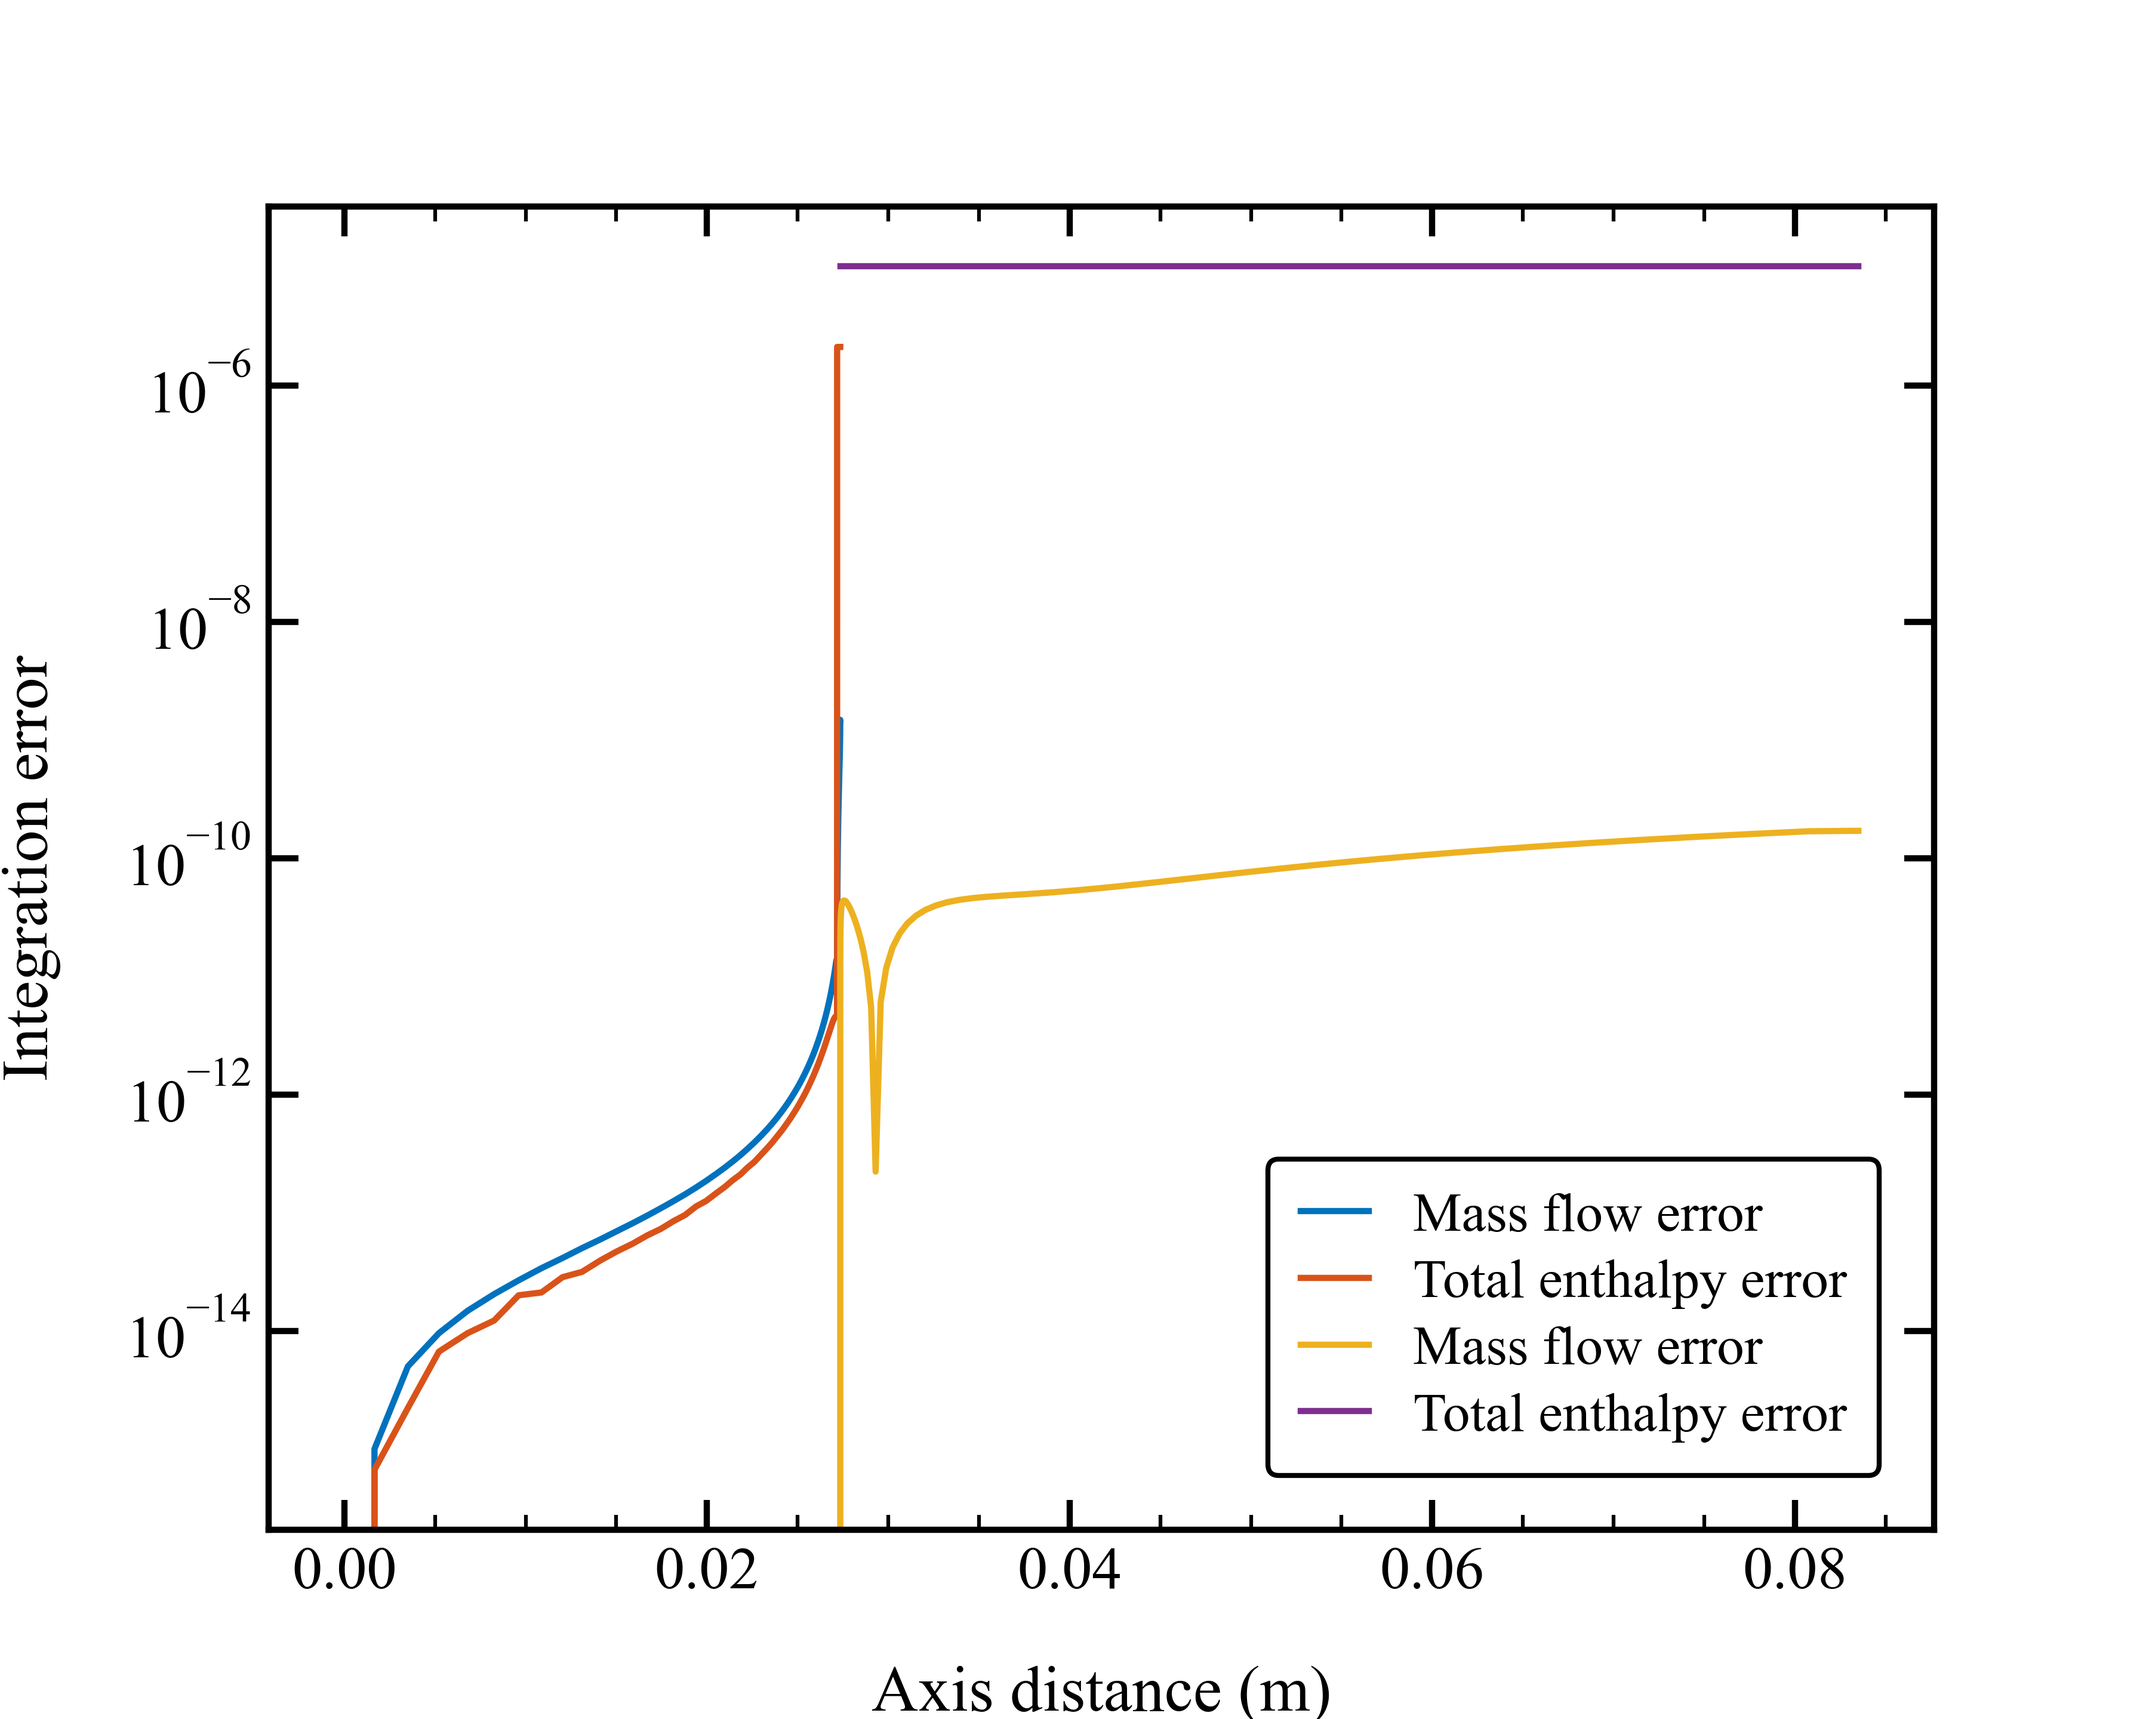
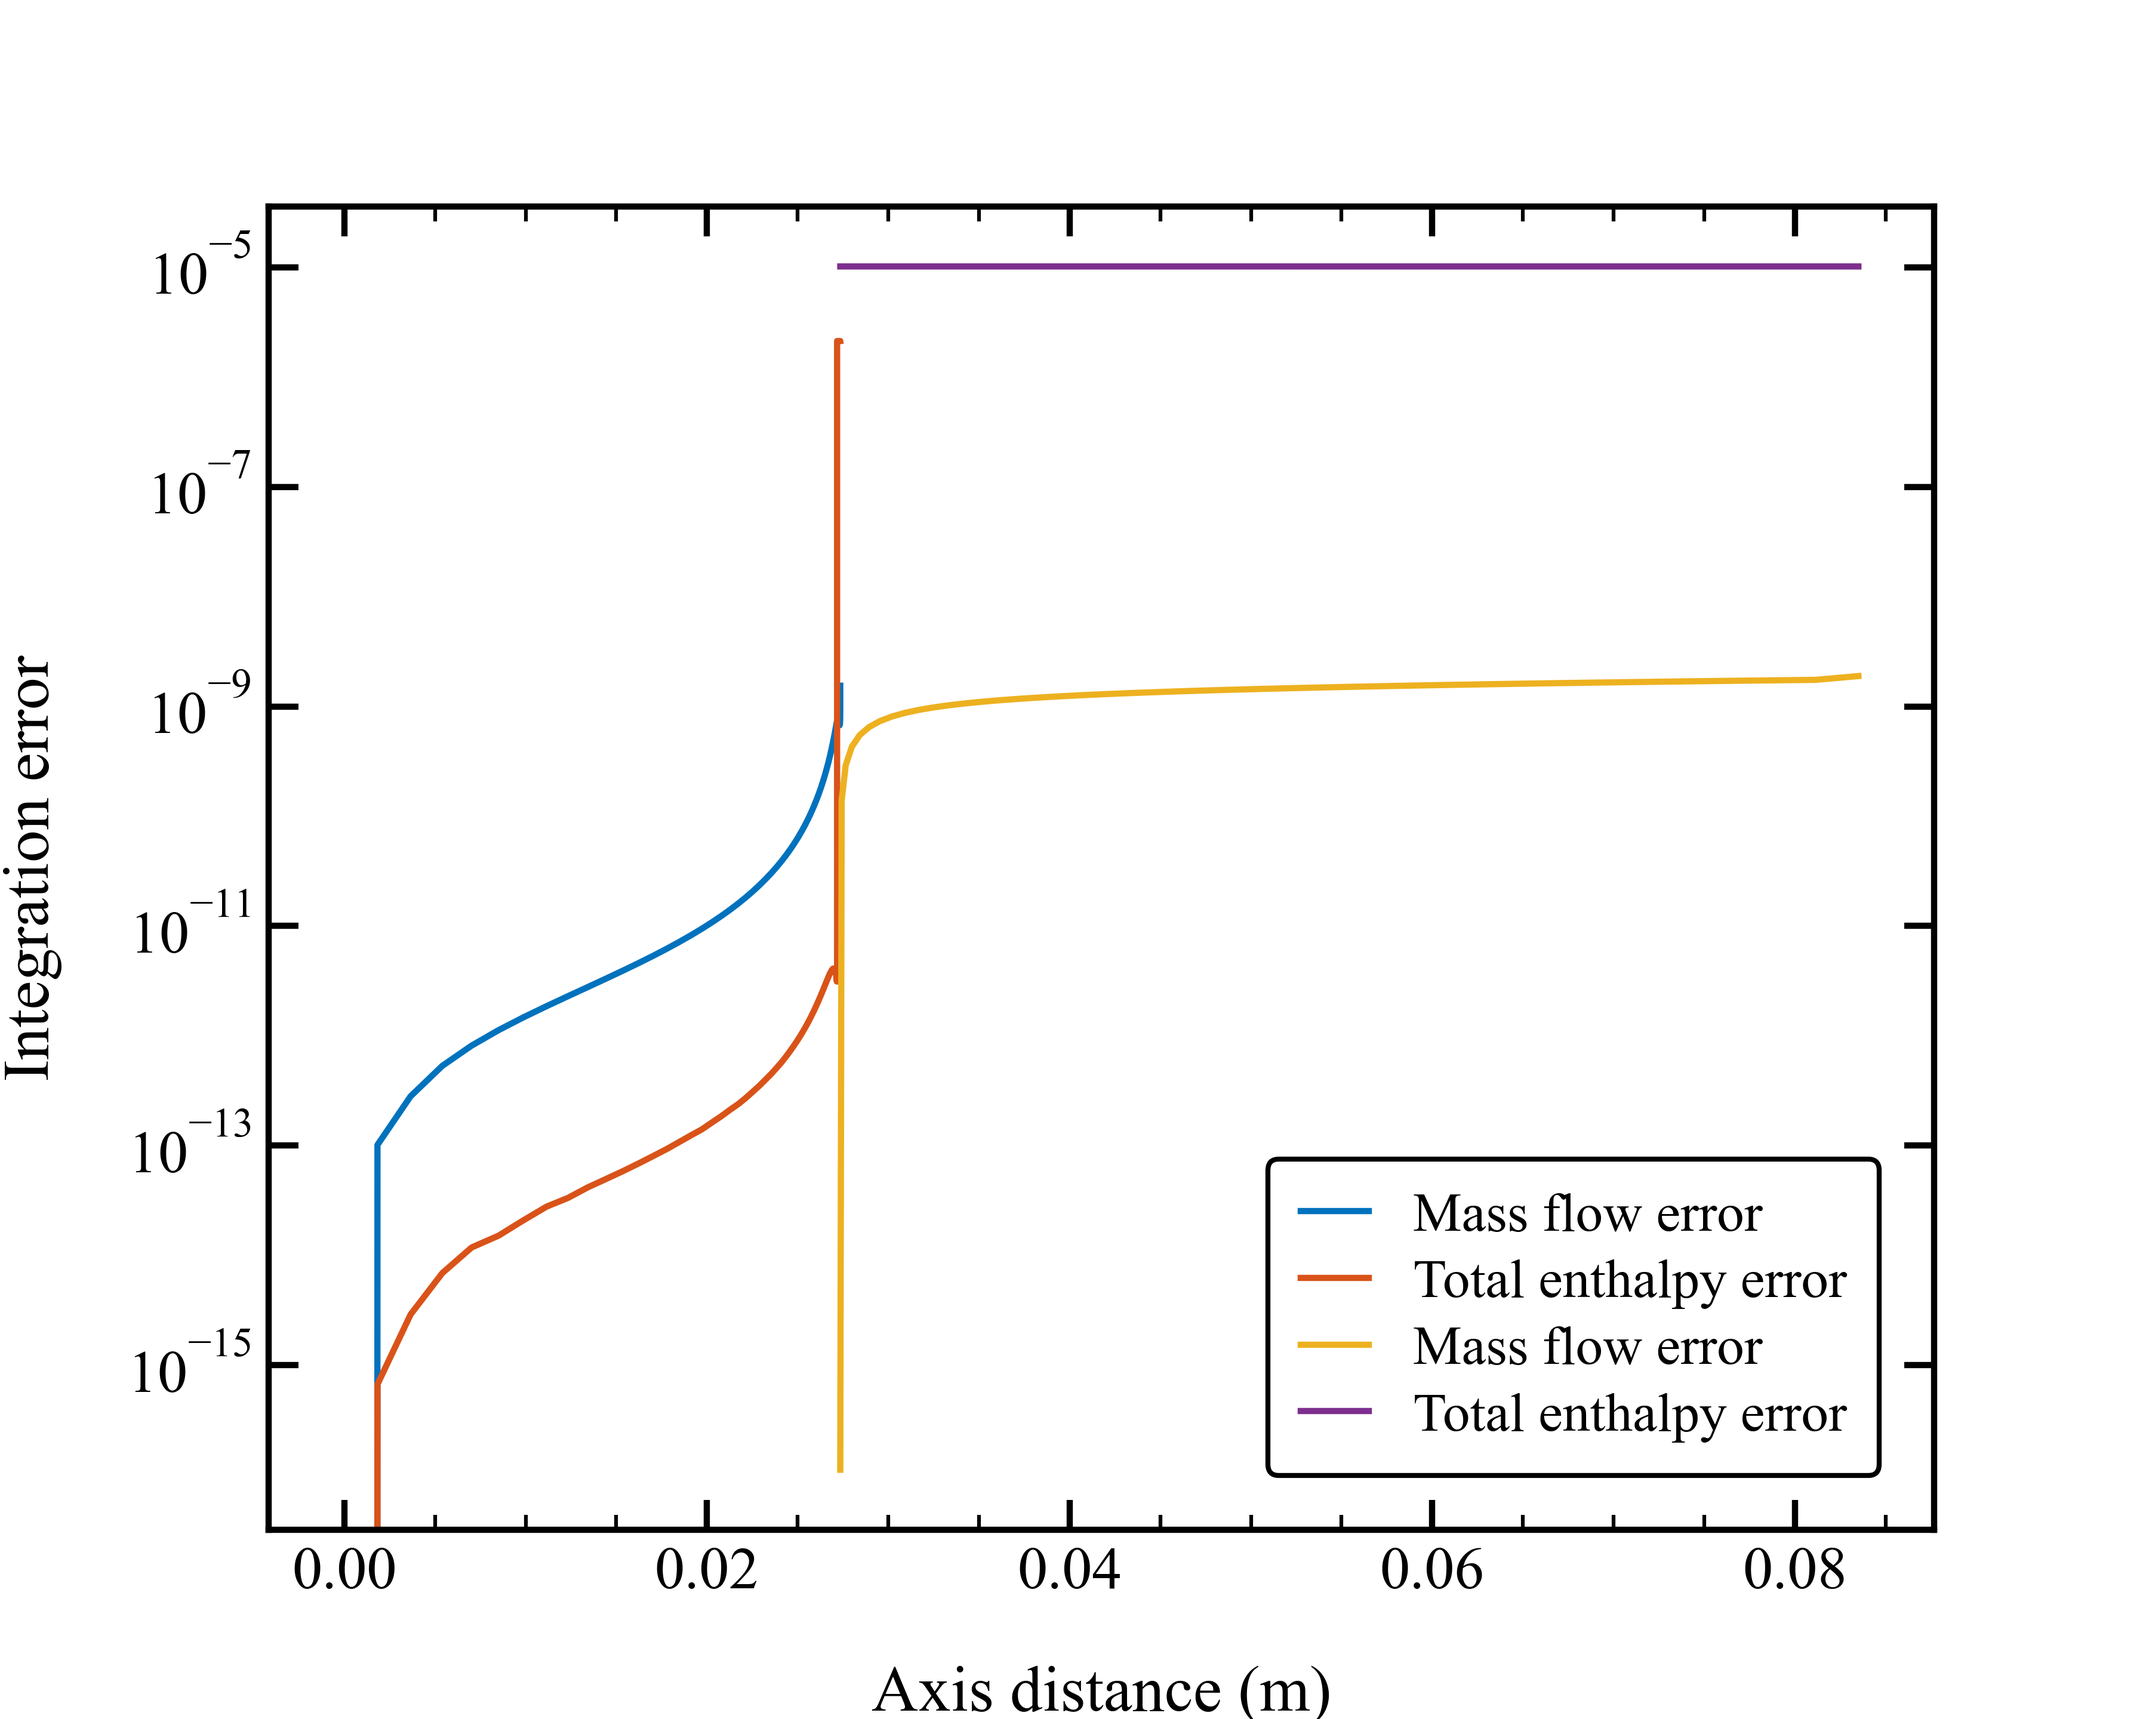
Updating...

diff --git a/main.py b/main.py
@@ -44,7 +44,7 @@ critical_flow = case_data["boundary_conditions"]["critical_flow"]
 state_in = fluid.set_state(real_gas_prop.PT_INPUTS, p_in, T_in)
 
 start_time = time.time()
-supersonic_solution, possible_solution, impossible_solution, solution, flow_rate, pif_iterations = function.pipeline_steady_state_1D(
+supersonic_solution, possible_solution, impossible_solution, solution, flow_rate, pif_iterations = function.pipeline_steady_state_1D_autonomous(
     fluid_name=fluid_name, properties_in=state_in, temperature_in=T_in, pressure_in=p_in, convergent_length=convergent_length,
     divergent_length=divergent_length, roughness=roughness, radius_in=radius_in, radius_throat=radius_throat, radius_out=radius_out,
     nozzle_type=nozzle_type, width=width, critical_flow=critical_flow, include_friction=False, include_heat_transfer=False)
